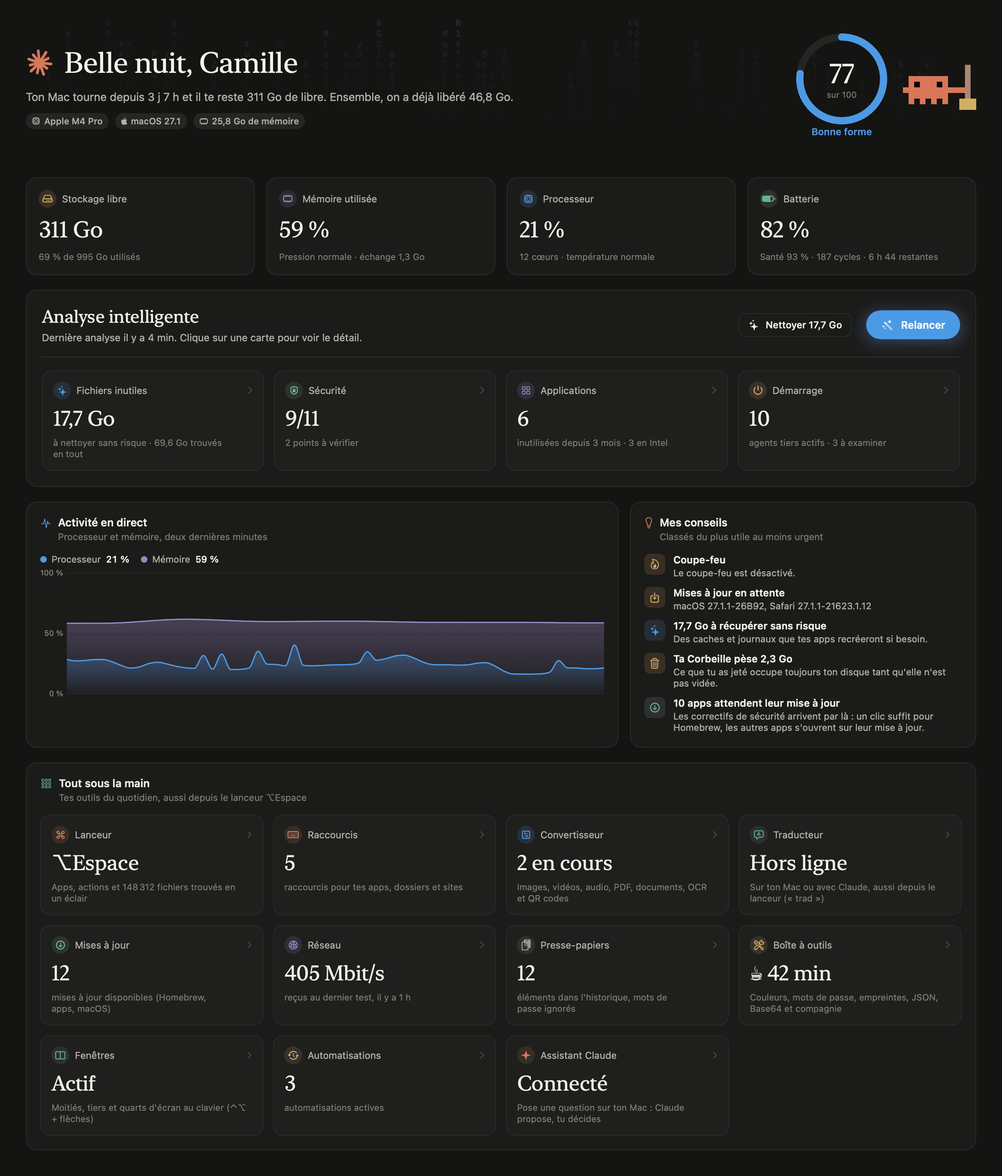
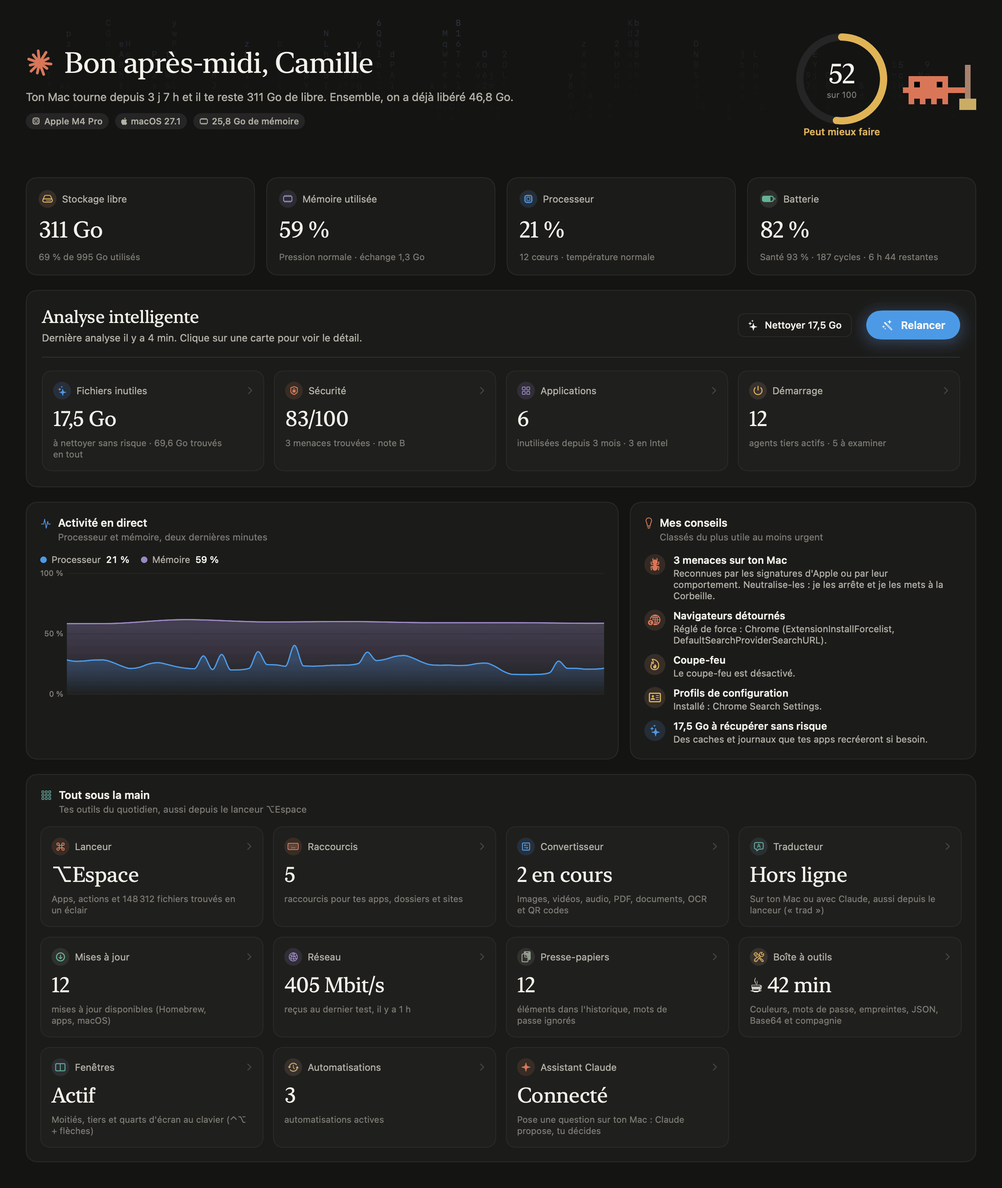
Runtime renforcé, tableau de bord et guide de la protection
- App signée avec le runtime renforcé de macOS (aucune bibliothèque injectée par DYLD_* ne peut emprunter ses autorisations), Apple Events permis par autorisation explicite ; la mise à jour garde ce runtime en re-signant
- Tableau de bord : note de sécurité sur 100, menaces trouvées en tête des conseils, analyse antimalware et protection en temps réel proposées ; une menace pèse lourd dans la santé du Mac
- Guide : « La sécurité, mesurée » (signatures d'Apple, bilan, temps réel, limites) et nouveaux garde-fous ; README et captures
- CLAUDE.md : Remover.quarantine, outils tiers sans les droits de l'app, urlSafe

diff --git a/Sources/CleanMyClaude/Features/Dashboard/DashboardPage.swift b/Sources/CleanMyClaude/Features/Dashboard/DashboardPage.swift
@@ -161,11 +161,11 @@ struct SmartScanPanel: View {
                                    value: app.cleanup.hasResults ? Fmt.bytes(app.cleanup.recommendedSize) : "—",
                                    detail: app.cleanup.hasResults ? "à nettoyer sans risque · \(Fmt.bytes(app.cleanup.totalSize)) trouvés en tout" : "Pas encore analysé",
                                    page: .cleanup)
-                    ScanResultTile(symbol: "lock.shield", title: "Sécurité", tint: Theme.good,
-                                   running: app.protection.isAuditing,
-                                   value: app.protection.hasAudit ? "\(app.protection.passedCount)/\(app.protection.scoredCount)" : "—",
-                                   detail: app.protection.hasAudit ? (app.protection.issues.isEmpty ? "Toutes les protections sont actives" : "\(Fmt.plural(app.protection.issues.count, "point", "points")) à vérifier") : "Pas encore analysé",
-                                   page: .protection, tab: { app.protection.tab = .security })
+                    ScanResultTile(symbol: "lock.shield", title: "Sécurité", tint: app.protection.malware.isEmpty ? Theme.good : Theme.bad,
+                                   running: app.protection.isAuditing || app.protection.isScanning,
+                                   value: app.protection.hasAudit ? "\(app.protection.securityScore)/100" : "—",
+                                   detail: securityDetail,
+                                   page: .protection, tab: { app.protection.tab = app.protection.malware.isEmpty ? .security : .threats })
                     ScanResultTile(symbol: "square.grid.2x2", title: "Applications", tint: Theme.palette[4],
                                    running: app.apps.isScanning,
                                    value: app.apps.lastScan != nil ? "\(app.apps.unused.count)" : "—",
@@ -187,10 +187,18 @@ struct SmartScanPanel: View {
         }
     }
 
+    private var securityDetail: String {
+        let p = app.protection
+        if !p.malware.isEmpty { return "\(Fmt.plural(p.malware.count, "menace trouvée", "menaces trouvées")) · note \(p.grade)" }
+        guard p.hasAudit else { return "Pas encore analysé" }
+        let threats = p.scanSummary.map { _ in " · aucune menace" } ?? ""
+        return (p.issues.isEmpty ? "Note \(p.grade), toutes les protections actives" : "Note \(p.grade) · \(Fmt.plural(p.issues.count, "point", "points")) à vérifier") + threats
+    }
+
     private var subtitle: String {
-        if app.smartScanRunning { return "Fichiers inutiles, sécurité, applications et démarrage : j'examine tout en parallèle." }
+        if app.smartScanRunning { return "Fichiers inutiles, sécurité, logiciels malveillants, applications et démarrage : j'examine tout en parallèle." }
         if let d = app.smartScanDate { return "Dernière analyse \(Fmt.relative(d)). Clique sur une carte pour voir le détail." }
-        return "Un bilan complet en une minute : fichiers inutiles, protections de sécurité, apps oubliées et ce qui démarre en douce. Rien n'est supprimé sans ton accord."
+        return "Un bilan complet en une minute : fichiers inutiles, protections de sécurité, logiciels malveillants, apps oubliées et ce qui démarre en douce. Rien n'est supprimé sans ton accord."
     }
 }
 
@@ -339,6 +347,12 @@ struct Recommendations: View {
     private var advices: [Advice] {
         let m = app.monitor
         var out: [Advice] = []
+        let p = app.protection
+        if !p.malware.isEmpty {
+            out.append(Advice(id: "malware", symbol: "ant.fill", title: "\(Fmt.plural(p.malware.count, "menace", "menaces")) sur ton Mac",
+                              text: "Reconnues par les signatures d'Apple ou par leur comportement. Neutralise-les : je les arrête et je les mets à la Corbeille.",
+                              tint: Theme.bad, page: .protection, tab: { app.protection.tab = .threats }))
+        }
         if !app.fullDiskAccess {
             out.append(Advice(id: "fda", symbol: "externaldrive.badge.checkmark", title: "Donne-moi l'accès complet au disque",
                               text: "Sans lui, je ne peux voir ni la Corbeille, ni Mail, ni les autorisations de tes apps.", tint: Theme.accent))
@@ -354,6 +368,19 @@ struct Recommendations: View {
         for c in app.protection.issues.prefix(3) {
             out.append(Advice(id: c.id, symbol: c.symbol, title: c.title, text: c.detail, tint: c.status.color, page: .protection,
                               tab: { app.protection.tab = .security }))
+        }
+        if !p.realtime.anyOn {
+            out.append(Advice(id: "realtime", symbol: "shield.lefthalf.filled.badge.checkmark", title: "Active la protection en temps réel",
+                              text: "Une alerte dès qu'un programme s'ajoute au démarrage, qu'une menace arrive dans Téléchargements ou que la caméra s'allume.",
+                              tint: Theme.good, page: .protection, tab: { app.protection.tab = .realtime }))
+        }
+        if p.scanSummary.map({ Date().timeIntervalSince($0.date) > 14 * 86400 }) ?? true {
+            out.append(Advice(id: "scan", symbol: "ant", title: p.scanSummary == nil ? "Cherche les logiciels malveillants" : "Ta dernière analyse antimalware date",
+                              text: "Les signatures d'Apple appliquées à tout ce qui est sur ton Mac, ouvert ou non : moins d'une minute.",
+                              tint: Theme.accent, page: .protection, tab: {
+                                  app.protection.tab = .threats
+                                  Task { await app.protection.scan(deep: false) }
+                              }))
         }
         if app.cleanup.hasResults && app.cleanup.recommendedSize > 1_000_000_000 {
             out.append(Advice(id: "junk", symbol: "sparkles", title: "\(Fmt.bytes(app.cleanup.recommendedSize)) à récupérer sans risque",

diff --git a/Sources/CleanMyClaude/Features/Protection/ProtectionYaraScan.swift b/Sources/CleanMyClaude/Features/Protection/ProtectionYaraScan.swift
@@ -199,24 +199,9 @@ final class ProtectionYaraRuleset: @unchecked Sendable {
         for global in rules.indices where rules[global].isGlobal {
             if !file.evaluate(rule: global) { return [] }
         }
-        let profile = ProcessInfo.processInfo.environment["CMC_YARA_PROFILE"] != nil
-        var times: [(Double, String)] = []
         for i in rules.indices where !rules[i].isPrivate && !rules[i].isGlobal {
-            let t = ProcessInfo.processInfo.systemUptime
             if file.evaluate(rule: i) { hits.append(rules[i]) }
-            if profile { times.append((ProcessInfo.processInfo.systemUptime - t, rules[i].name)) }
             if file.aborted { return [] }
-        }
-        if profile {
-            for (t, name) in times.sorted(by: { $0.0 > $1.0 }).prefix(5) { print(String(format: "    %.3f s %@", t, name)) }
-            let p = data.bindMemory(to: UInt8.self)
-            var hit = 0, checks = 0
-            for i in 0..<(p.count - 1) {
-                let k = Int(p[i]) | Int(p[i + 1]) << 8
-                let c = Int(bucket[k + 1] - bucket[k])
-                if c > 0 { hit += 1; checks += c }
-            }
-            print("    entrées : \(entries.count), positions touchées : \(hit * 1000 / p.count) ‰, comparaisons : \(checks), sans atome : \(indexed.filter { !$0 }.count) (dont \(anchors.count) par memchr)")
         }
         return hits
     }

diff --git a/Sources/CleanMyClaude/Features/Updates/UpdatesSelf.swift b/Sources/CleanMyClaude/Features/Updates/UpdatesSelf.swift
@@ -451,7 +451,9 @@ enum UpdatesSelfInstaller {
         // The published app is signed ad hoc: re-signed with the local identity of this copy, if any, macOS keeps its permissions.
         var signedLocally = false
         if let identity = localSigningIdentity(of: currentBundle) {
-            let sign = Shell.run("/usr/bin/codesign", ["--force", "--deep", "--sign", identity, app.path], timeout: 120)
+            // The hardened runtime and the entitlements of the published app are kept.
+            let sign = Shell.run("/usr/bin/codesign", ["--force", "--deep", "--preserve-metadata=entitlements,flags,runtime",
+                                                       "--sign", identity, app.path], timeout: 120)
             signedLocally = sign.ok && Shell.run("/usr/bin/codesign", ["--verify", "--deep", "--strict", app.path], timeout: 120).ok
             // A half-signed app is never installed.
             if !signedLocally { throw Failure.localSign(sign.err.trimmingCharacters(in: .whitespacesAndNewlines)) }

diff --git a/Sources/CleanMyClaude/Features/Protection/ProtectionMonitor.swift b/Sources/CleanMyClaude/Features/Protection/ProtectionMonitor.swift
@@ -276,6 +276,12 @@ final class ProtectionMonitor {
         if on { Notifier.post(id: "protection.camera", title: "La caméra est allumée", body: "Une app te filme. Le Centre de contrôle indique laquelle.", throttle: 30) }
     }
 
+    /// For `--dump`: whether a camera or a microphone is in use right now.
+    static func devicesInUse() -> (camera: Bool, microphone: Bool) {
+        let m = ProtectionMonitor()
+        return (m.cameraInUse(), m.microphoneInUse())
+    }
+
     private func audioInputDevices() -> [AudioObjectID]? {
         var address = AudioObjectPropertyAddress(mSelector: kAudioHardwarePropertyDevices, mScope: kAudioObjectPropertyScopeGlobal,
                                                  mElement: kAudioObjectPropertyElementMain)

diff --git a/Sources/CleanMyClaude/Features/Protection/ProtectionModel.swift b/Sources/CleanMyClaude/Features/Protection/ProtectionModel.swift
@@ -489,6 +489,8 @@ final class ProtectionModel: AppModule {
             out.append("Extension \(e.browser) : \(e.name)\(e.readsEverything ? " · lit tous les sites" : "")\(e.forced ? " · IMPOSÉE" : "")")
         }
         for a in ProtectionAnchors.scan() { out.append("\(a.kind.title) : \(a.name) — \(a.detail)") }
+        let devices = ProtectionMonitor.devicesInUse()
+        out.append("Caméra \(devices.camera ? "allumée" : "éteinte") · micro \(devices.microphone ? "allumé" : "éteint")")
         return out
     }
 }

diff --git a/Sources/CleanMyClaude/App/AppModel.swift b/Sources/CleanMyClaude/App/AppModel.swift
@@ -195,13 +195,15 @@ final class AppModel {
         } else {
             score += 22
         }
+        // A piece of malware outweighs everything else.
+        if !protection.malware.isEmpty { score -= 25 }
         if cleanup.hasResults {
             let junkGB = Double(cleanup.recommendedSize) / 1e9
             score += 20 * (1 - min(1, junkGB / 20))
         } else {
             score += 15
         }
-        return Int(score.rounded())
+        return max(0, Int(score.rounded()))
     }
 
     var healthLabel: String {

diff --git a/docs/GUIDE.md b/docs/GUIDE.md
@@ -29,7 +29,7 @@ Tout ce que fait l'app, comment elle protège tes données, et comment la compil
   </tr>
   <tr>
     <td valign="top"><img src="screenshots/cleanup.png" alt="Nettoyage : fichiers inutiles classés par catégorie, avec le détail des caches d'applications et les éléments verrouillés par une app ouverte"></td>
-    <td valign="top"><img src="screenshots/protection.png" alt="Protection : bilan de sécurité de macOS (FileVault, coupe-feu, Gatekeeper, SIP, mises à jour…)"></td>
+    <td valign="top"><img src="screenshots/protection.png" alt="Protection : analyse antimalware avec les signatures d'Apple, menaces trouvées (un logiciel publicitaire, un faux lecteur vidéo, un faux agent Apple) prêtes à être neutralisées"></td>
   </tr>
   <tr>
     <th>Mises à jour</th>
@@ -93,7 +93,7 @@ Tout ce que fait l'app, comment elle protège tes données, et comment la compil
 | --- | --- |
 | **Tableau de bord** | Score de santé sur 100, stockage, mémoire, processeur, batterie (santé, cycles), activité en direct, **analyse intelligente** qui passe tout en revue en une minute, conseils classés par utilité, et l'état de chaque outil |
 | **Nettoyage du système** | Caches d'apps et de macOS, journaux, fichiers temporaires, Xcode (données dérivées, appareils, archives, simulateurs), caches npm / Yarn / pip / Homebrew / CocoaPods / Go / Cargo…, dépendances de **projets endormis** (`node_modules`, `.build`, `Pods`, `target`), caches de l'**app Claude** et journaux de **Claude Code**, caches des navigateurs et des apps Electron, Corbeille, pièces jointes Mail, installeurs oubliés, sauvegardes d'iPhone |
-| **Protection et confidentialité** | Bilan de sécurité (FileVault, coupe-feu, Gatekeeper, SIP, XProtect, mises à jour, verrouillage, partages), audit des **éléments persistants** avec vérification des signatures, liste des **autorisations** (caméra, micro, écran, disque…), effacement des **traces** (éléments récents, téléchargements, vignettes, Terminal, historique et cookies des navigateurs) |
+| **Protection et confidentialité** | **Antimalware** avec les 572 signatures d'XProtect appliquées à tout ce qui est déjà sur le Mac (analyse rapide ou complète), traces de familles connues, apps modifiées après leur signature, et neutralisation (arrêt puis Corbeille) ; **bilan de 40 points** en sept familles (défenses de macOS, mises à jour, accès, partages, réseau intercepté, secrets laissés en clair, navigation) avec une note sur 100, deux niveaux d'exigence et des **corrections en un clic** ; tout ce qui **démarre seul** (agents, services, ouverture à la connexion, cron, extensions) avec les usurpateurs d'Apple et les téléchargeurs repérés ; **qui t'observe** (programmes qui lisent le clavier, extensions de navigateur, ports ouverts, autorisations) ; **protection en temps réel** (démarrage, Téléchargements, caméra, micro, DNS et proxy) ; effacement des **traces** (éléments récents, téléchargements, vignettes, Terminal, historique et cookies des navigateurs) |
 | **Optimisation** | **Boost** (les apps en arrière-plan passent sur les cœurs économes : modes Intelligent, Performance et Fraîcheur, réflexe thermique, mode Jeu de macOS), **capteurs** sans mot de passe (température du processeur et du GPU, consommation du Mac en watts, fréquences des cœurs, ventilateurs), diagnostic « ce qui ralentit ou chauffe ton Mac », **benchmark** (processeur, GPU en images par seconde, mémoire, SSD, réactivité, test du Boost, endurance thermique, historique), réglages de **fluidité** réversibles (animations, Dock, Finder, compteur FPS des jeux, fréquence des écrans), moniteur temps réel, éléments au démarrage, tâches de maintenance |
 | **Mises à jour** | **Homebrew** en un clic (sortie en direct, annulable ; les paquets qui demandent un mot de passe sont signalés avec la commande à copier), apps **Sparkle** (lecture de leur flux, l'app s'installe elle-même), **App Store** et **macOS** |
 | **Applications** | Inventaire avec taille, version, dernière ouverture, apps **Intel** qui passent par Rosetta, désinstallation **complète** (l'app et tous ses fichiers dans `~/Library`), restes d'apps déjà supprimées |
@@ -139,6 +139,26 @@ Les tâches de fond continuent, plus lentement. L'onglet **Benchmark › Test du
 
 Jamais ralentis : l'app au premier plan et ce qu'elle a lancé (une compilation depuis le Terminal), les apps qui jouent ou enregistrent du son (appels, musique), celles qui surveillent le clavier, le Finder, le Dock et tout composant de macOS, ce que macOS garde déjà lui-même en arrière-plan, et une liste d'apps dont le travail en fond compte (OBS, Final Cut Pro, Logic Pro, DaVinci Resolve, HandBrake, Blender, Xcode, machines virtuelles…), modifiable. Chaque processus déplacé est noté avec son heure de démarrage : un numéro de processus réutilisé n'est jamais touché, tout est rétabli quand l'app quitte, et au lancement suivant après un plantage. Le gouverneur ne travaille qu'une dizaine de millisecondes toutes les dix secondes, et pas du tout quand le Boost est désactivé.
 
+## La sécurité, mesurée
+
+**Les signatures d'Apple, partout.** XProtect, l'antimalware intégré à macOS, ne vérifie un fichier qu'au moment où on l'ouvre (et XProtect Remediator, de temps en temps, une liste de familles). Clean My Claude contient un interpréteur YARA écrit en Swift qui applique les propres règles d'Apple (`XProtect.yara` et `XPScripts.yr`, mises à jour par macOS lui-même, rien n'est téléchargé) à tout ce qui est déjà sur le disque : apps, bibliothèques, scripts, installeurs, programmes lancés au démarrage, ce qui tourne en ce moment. Une règle qu'il ne comprendrait pas est ignorée : elle ne peut que manquer une détection, jamais en inventer une.
+
+| Mesuré sur un MacBook (macOS 27.2, XProtect 5367) | Résultat |
+| --- | --- |
+| Règles d'Apple comprises | 572 sur 572, compilées en 0,13 s |
+| Règles reconnaissant leur propre échantillon, fabriqué en mémoire (`--selftest`) | 377 sur 377 |
+| Analyse rapide (démarrage, processus, apps, Téléchargements, cachettes habituelles) | 5,8 s |
+| Analyse complète : 36 758 programmes, bibliothèques et scripts | 76 s, sur la moitié des cœurs |
+| Fausses alertes sur ces 36 758 fichiers | 0 |
+
+À côté des signatures : les fichiers exacts que laissent des familles documentées (EvilQuest, Silver Sparrow, AppleJeus, la porte dérobée d'Atomic Stealer…), les apps dont la signature ne correspond plus au contenu (copies piratées ou infectées), les extensions Safari et les développeurs bloqués par Apple, et les comportements d'intrus : un agent qui se fait passer pour Apple, qui télécharge puis exécute du code, qui se cache dans un dossier partagé, un `~/.zshrc` piégé. **Neutraliser** arrête les services liés, termine les processus et met les fichiers à la Corbeille, où tu peux les reprendre.
+
+**Le bilan** reprend l'esprit des référentiels de sécurité pour macOS (CIS Benchmark, NIST mSCP) en 40 points lisibles sans mot de passe, chacun pesant selon sa gravité dans une **note sur 100**. Au-delà des réglages classiques (FileVault, coupe-feu et mode furtif, Gatekeeper, SIP, volume système scellé, verrouillage, partages, AirDrop), il regarde ce que les logiciels malveillants modifient : **proxy et serveurs DNS** inconnus, **certificats racine** approuvés pour les sites web, fichier hosts, **profils de configuration**, navigateurs **réglés de force** ; et ce que les voleurs de données copient en premier : **clés SSH** sans phrase de passe, identifiants **en clair** (Git, AWS, Docker, npm, GitHub CLI…), clés d'API restées dans l'historique du Terminal. Le niveau **Renforcé** ajoute les recommandations plus strictes (mode furtif, récepteur AirPlay, compte du quotidien sans droits d'administrateur…). Quand c'est sûr, **Corriger** applique la correction après confirmation : une commande fixe, jamais construite à partir d'une donnée du Mac, et macOS demande lui-même le mot de passe quand il le faut.
+
+**En temps réel**, sur les événements de macOS et sans minuterie : un agent ou un service qui s'ajoute au démarrage est vérifié aussitôt, chaque app, script ou installeur qui arrive dans Téléchargements passe aux signatures, la caméra et le micro préviennent quand ils s'allument, un serveur DNS ou un proxy qui apparaît est signalé.
+
+Ce n'est pas un antivirus d'entreprise : rien ne part dans un nuage, une image disque ou une archive n'est pas ouverte pour être analysée, et une famille inconnue d'Apple ne se repère qu'à son comportement.
+
 ## Les garde-fous
 
 Un nettoyeur qui supprime trop, c'est pire que pas de nettoyeur. Clean My Claude est prudent par construction :
@@ -147,7 +167,11 @@ Un nettoyeur qui supprime trop, c'est pire que pas de nettoyeur. Clean My Claude
 - **Une seule porte de sortie.** Toutes les suppressions passent par `Remover`, qui refuse tout ce qui n'est pas dans ton dossier personnel (et `~/Library` lui-même, les trousseaux, Mail, Messages, iCloud Drive, Photos…). `CleanMyClaude --selftest` vérifie ces règles et que le catalogue ne propose jamais un chemin protégé ; le script de build le lance à chaque compilation.
 - **La Corbeille d'abord.** Seuls les caches et journaux que les apps recréent sont supprimés directement. Tes fichiers, les apps désinstallées, les doublons partent dans la Corbeille.
 - **Jamais d'écrasement.** Conversions, renommages et rangements écrivent toujours un nouveau fichier (`photo 2.jpg` si `photo.jpg` existe) ; tes originaux ne bougent pas.
-- **Une seule porte de confirmation.** Les commandes risquées du lanceur, des liens `cleanmyclaude://` ou de l'assistant demandent toujours ton accord ; Claude ne peut proposer que des actions sans danger.
+- **Une seule porte de confirmation.** Les commandes risquées du lanceur ou de l'assistant demandent toujours ton accord ; Claude ne peut proposer que des actions sans danger.
+- **Les liens ne décident pas pour toi.** Un lien `cleanmyclaude://run/…` (une page web, un mail, une autre app) ne lance seul que la navigation et les analyses ; toute autre action te demande, « Annuler » étant la réponse par défaut, et une action risquée ne part jamais d'un lien.
+- **Les droits de l'app restent à l'app.** Lancée par un autre programme (`open -a … --args`), elle ignore tous les modes en ligne de commande ; les outils tiers (Claude Code, ffmpeg, Homebrew…) tournent sans hériter de ses autorisations (accès complet au disque, accessibilité) ; leur environnement est nettoyé des variables qui injectent du code.
+- **Tes secrets ne s'écrivent pas.** Le presse-papiers ignore les clés d'API, jetons, clés privées, codes à usage unique et mots de passe probables ; ses fichiers ne sont lisibles que par toi et restent hors des sauvegardes. Les réglages des automatisations sont scellés : modifiés hors de l'app, elles se coupent.
+- **Les menaces aussi passent par la Corbeille.** `Remover.quarantine` a ses propres garde-fous : jamais macOS, l'app elle-même, ses données, un autre compte ni un dossier comme `~/Documents` ou `/Library/LaunchAgents` en entier.
 - **Les apps ouvertes sont respectées.** Les caches de Claude, Chrome, Slack… sont verrouillés tant que l'app tourne.
 - **Un journal** de chaque action : `~/Library/Logs/CleanMyClaude/actions.log`.
 
@@ -189,7 +213,7 @@ Au lancement, puis toutes les 6 h tant que l'app tourne en arrière-plan, Clean 
 
 <p align="center"><img src="screenshots/selfupdate-window-panel.png" alt="La fenêtre de Clean My Claude assombrie, avec au centre le panneau de nouvelle version : ce qui change, puis Ignorer cette version, Plus tard et Mettre à jour" width="760"></p>
 
-- **Mettre à jour** télécharge `CleanMyClaude.zip` depuis la version publiée, vérifie son empreinte SHA-256 (celle que GitHub a calculée à la publication), l'ouvre, contrôle que c'est bien Clean My Claude dans la version annoncée et que sa signature est intacte. Rien n'est remplacé avant que tu cliques sur **Installer et relancer** : l'ancienne version part alors à la Corbeille, la nouvelle prend sa place et se rouvre. Le téléchargement s'annule à tout moment ; une erreur dit ce qui s'est passé et ce qui n'a pas changé.
+- **Mettre à jour** télécharge `CleanMyClaude.zip` depuis la version publiée (seulement depuis les versions de ce dépôt sur GitHub), vérifie son empreinte SHA-256, obligatoire (celle que GitHub a calculée à la publication), l'ouvre, contrôle que c'est bien Clean My Claude dans la version annoncée et que sa signature est intacte. Rien n'est remplacé avant que tu cliques sur **Installer et relancer** : l'ancienne version part alors à la Corbeille, la nouvelle prend sa place et se rouvre. Le téléchargement s'annule à tout moment ; une erreur dit ce qui s'est passé et ce qui n'a pas changé.
 - **Plus tard** (ou ✕, ou Échap) ferme le panneau : il revient au prochain lancement (pas dans les 24 h qui suivent tant que l'app reste ouverte). Pendant un téléchargement, le fermer le masque seulement : il revient quand la nouvelle version est prête.
 - **Ignorer cette version** : le panneau ne revient tout seul qu'à la version suivante. La page Mises à jour la montre toujours.
 - **Les autorisations de macOS.** La version publiée est signée « ad hoc » (pas de certificat de développeur Apple) : macOS peut redemander l'Accessibilité ou l'accès complet au disque après la mise à jour. Si ta copie est signée avec le certificat local de `scripts/setup_signing.sh`, la nouvelle version est re-signée avec lui et garde ses autorisations.

diff --git a/CLAUDE.md b/CLAUDE.md
@@ -19,16 +19,16 @@ Chaque push sur `main` dont la CI réussit est publié comme nouvelle version (`
 
 ## Architecture
 
-- `Core/` : services partagés. Toute suppression passe par `Remover` (`removeInternal` pour les fichiers de l'app dans `DataStore`, `discardOutput` pour une sortie à moitié écrite), toute écriture de fichier par `FileOps` (jamais d'écrasement, `makeDirectory` pour un dossier), tout accès réseau par `HTTP` (HTTPS, sur action de l'utilisateur ; seule exception, désactivable : la recherche des nouvelles versions de l'app, `Features/Updates/UpdatesSelf*`, au lancement puis toutes les 6 h), tout processus par `Shell` (`run`, `stream`, `which`, `runAsAdmin`). Commandes du lanceur : `Core/Commands.swift` (`CommandRunner.copy(_:concealed:)` pour un secret). Raccourcis globaux : `HotKeyCenter`. Panneaux flottants et messages furtifs : `FloatingPanel`, `HUD`. Persistance : `JSONStore` (dossier `DataStore`). Secrets : `Keychain`. Notifications : `Notifier`. Tâches périodiques : `Scheduler`. Autorisations : `AppPermission` + `PermissionCard` ; l'état de toutes et « Tout autoriser » : `PermissionCenter` (ajoute-y toute nouvelle autorisation).
+- `Core/` : services partagés. Toute suppression passe par `Remover` (`removeInternal` pour les fichiers de l'app dans `DataStore`, `discardOutput` pour une sortie à moitié écrite, `quarantine` pour une menace trouvée par Protection, toujours vers la Corbeille), toute écriture de fichier par `FileOps` (jamais d'écrasement, `makeDirectory` pour un dossier), tout accès réseau par `HTTP` (HTTPS, sur action de l'utilisateur ; seule exception, désactivable : la recherche des nouvelles versions de l'app, `Features/Updates/UpdatesSelf*`, au lancement puis toutes les 6 h), tout processus par `Shell` (`run`, `stream`, `which`, `runAsAdmin` ; un outil hors des dossiers système part sans hériter des autorisations de l'app ; une commande `runAsAdmin` est une chaîne fixe, jamais construite à partir d'une donnée sans contrôle). Commandes du lanceur : `Core/Commands.swift` (`CommandRunner.copy(_:concealed:)` pour un secret). Raccourcis globaux : `HotKeyCenter`. Panneaux flottants et messages furtifs : `FloatingPanel`, `HUD`. Persistance : `JSONStore` (dossier `DataStore`). Secrets : `Keychain`. Notifications : `Notifier`. Tâches périodiques : `Scheduler`. Autorisations : `AppPermission` + `PermissionCard` ; l'état de toutes et « Tout autoriser » : `PermissionCenter` (ajoute-y toute nouvelle autorisation).
 - `App/ModuleRegistry.swift` : le protocole `AppModule` et la liste des modules. Le lanceur, le mode démo, les autotests, les captures et le menu d'état passent par lui.
-- `Features/<Module>/` : un dossier par module (`Launcher`, `Hotkeys`, `Converter`, `Translator`, `Toolbox`, `Clipboard`, `Updates`, `Network`, `Windows`, `Automation`, `Assistant`), avec au minimum `<Module>Model` (`@Observable @MainActor`, conforme à `AppModule`), `<Module>Page` et `<Module>BottomBar`.
+- `Features/<Module>/` : un dossier par module (`Launcher`, `Hotkeys`, `Converter`, `Translator`, `Toolbox`, `Clipboard`, `Updates`, `Network`, `Windows`, `Automation`, `Assistant`, `Performance`, `Protection`), avec au minimum `<Module>Model` (`@Observable @MainActor`, conforme à `AppModule`), `<Module>Page` et `<Module>BottomBar`.
 
 ## Règles pour travailler sur un module
 
 1. **Ne modifie que `Features/<TonModule>/`.** Si tu as besoin d'un changement ailleurs (Core, AppModel, build_app.sh…), écris-le dans la note de fin pour l'intégrateur au lieu de le faire.
 2. **Préfixe tous tes types** par le nom du module (`ConverterJob`, `ToolboxHash`…). Pas d'extension non privée sur un type partagé, pas de fonction globale : tout est compilé dans un seul module Swift.
 3. **Mode démo** (`DemoData.isEnabled`) : `start()` ne fait rien (le registre ne l'appelle pas), `loadDemo()` remplit le module avec des données **inventées** (jamais celles de ce Mac : pas de vrai nom, chemin, app ou réseau), et ta page doit s'afficher sous `--snapshot --demo`. Les services de `Core/` refusent déjà toute action réelle en démo.
-4. **Lanceur** : expose tes actions via `commands(app:)` (identifiants `[a-zA-Z0-9_-]`, préfixés par ton module, ex. `conv_heic_jpeg`) et tes résultats calculés via `results(for:app:)` (rapide : appelé à chaque frappe). Toute commande destructrice ou risquée porte `risk: .confirm("…")`. `assistantSafe: true` seulement pour ce que Claude peut proposer sans danger.
+4. **Lanceur** : expose tes actions via `commands(app:)` (identifiants `[a-zA-Z0-9_-]`, préfixés par ton module, ex. `conv_heic_jpeg`) et tes résultats calculés via `results(for:app:)` (rapide : appelé à chaque frappe). Toute commande destructrice ou risquée porte `risk: .confirm("…")`. `assistantSafe: true` seulement pour ce que Claude peut proposer sans danger (l'assistant ne propose rien d'autre). `urlSafe: true` seulement pour la navigation et les analyses en lecture seule : un lien `cleanmyclaude://run/<id>` lance seul ces commandes, demande pour les autres et ne lance jamais une commande `.confirm`.
 5. **Performance** : pas d'animation `repeatForever` (elle recalcule toute l'app à chaque image), des minuteurs avec tolérance et arrêtés quand rien n'est visible, une mise à jour de progression au plus 4 fois par seconde. Objectif : ≈1 % de CPU au repos.
 6. **Autorisations macOS** : demande-les seulement après un clic, avec `PermissionCard` et une explication.
 7. **SDK** : rien au-delà de macOS 15 (la CI compile avec Xcode 16). Pas de `#available(macOS 26, *)`.

diff --git a/README.md b/README.md
@@ -38,7 +38,8 @@ L'app s'installe dans Applications et s'ouvre. Ensuite, elle te prévient elle-m
 ## Ce qu'elle fait pour toi
 
 - **Fait de la place** : caches, fichiers oubliés, doublons, apps désinstallées proprement avec tout ce qu'elles laissent derrière elles.
-- **Garde ton Mac en forme** : sécurité, ce qui démarre en douce, mises à jour de tes apps, mémoire qui sature.
+- **Protège ton Mac** : antimalware qui applique les signatures d'Apple à tout ce qui est sur le disque, bilan de sécurité de 40 points avec une note et des corrections en un clic, alertes en temps réel (démarrage, téléchargements, caméra, micro).
+- **Garde ton Mac en forme** : ce qui démarre en douce, mises à jour de tes apps, mémoire qui sature.
 - **Donne toute la puissance à ce que tu fais** : le Boost envoie ce qui tourne en arrière-plan sur les cœurs économes de la puce. Ton jeu ou ton export va plus vite, le Mac chauffe moins, et le benchmark intégré le prouve en chiffres.
 - **Retrouve tout en un éclair** : `⌥ Espace` ouvre un lanceur pour tes apps, tes fichiers, un calcul ou une traduction.
 - **T'évite les petites corvées** : convertir une photo, une vidéo ou un PDF, ouvrir une app d'un raccourci, ranger tes fenêtres, retrouver ce que tu as copié.
